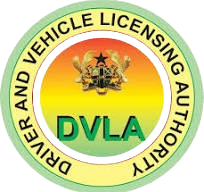
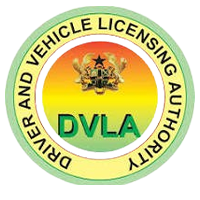
updates

diff --git a/css/base.css b/css/base.css
@@ -70,7 +70,11 @@ h6 {
   background-repeat: no-repeat;
   background-size: cover;
 }
+.dvla_logo{
+  background-image: url(../images/dvla.png);
+  margin-left: 4%;
 
+}
 .links {
   display: flex;
   flex-direction: column;
@@ -103,6 +107,8 @@ h6 {
   font-size: 18px !important;
   font-weight: 500;
   margin: 0;
+  display: flex;
+  gap: 10px;
 }
 
 .links a:hover {

diff --git a/sidebar.php b/sidebar.php
@@ -1,7 +1,9 @@
 <div class="sidebar_all">
-    <div class="logo"></div>
+    
     <div class="links">
+   
     <?php if (isset($_SESSION['admin']) && $_SESSION['admin'] === 'admin') : ?>
+        <div class="logo"></div>
         <h3><span class="icon"><i class="fa-solid fa-chart-simple"></i></span> MTTD DEPARTMENT</h3>
         <a href="dashboard.php">Dashboard</a>
         <a href="register_police.php">Register Police</a>
@@ -16,7 +18,8 @@
     <?php endif; ?>
 
     <?php if (isset($_SESSION['police'])): ?>
-    <h3><span class="icon"><i class="fa-solid fa-chart-simple"></i></span> Police</h3>
+        <div class="logo"></div>
+    <h3><span class="icon"><i class="fa-solid fa-chart-simple"></i></span> MTTD - POLICE</h3>
     <a href="police_dashboard.php">Dashboard</a>
     <a href="view_police_profile.php">Profile</a>
     <a href="">Search Vechile</a>
@@ -27,7 +30,9 @@
 <?php endif; ?>
 
 <?php if (isset($_SESSION['dvla_personnel'])): ?>
-    <h3><span class="icon"><i class="fa-solid fa-chart-simple"></i></span> DVLA</h3>
+    <div class="logo dvla_logo"></div>
+    <h3><span class="icon"><i class="fas fa-car"></i>
+    </span> DVLA</h3>
     <a href="police_dashboard.php">Dashboard</a>
     <a href="view_police_profile.php">Profile</a>
     <a href="">Search Vechile</a>
